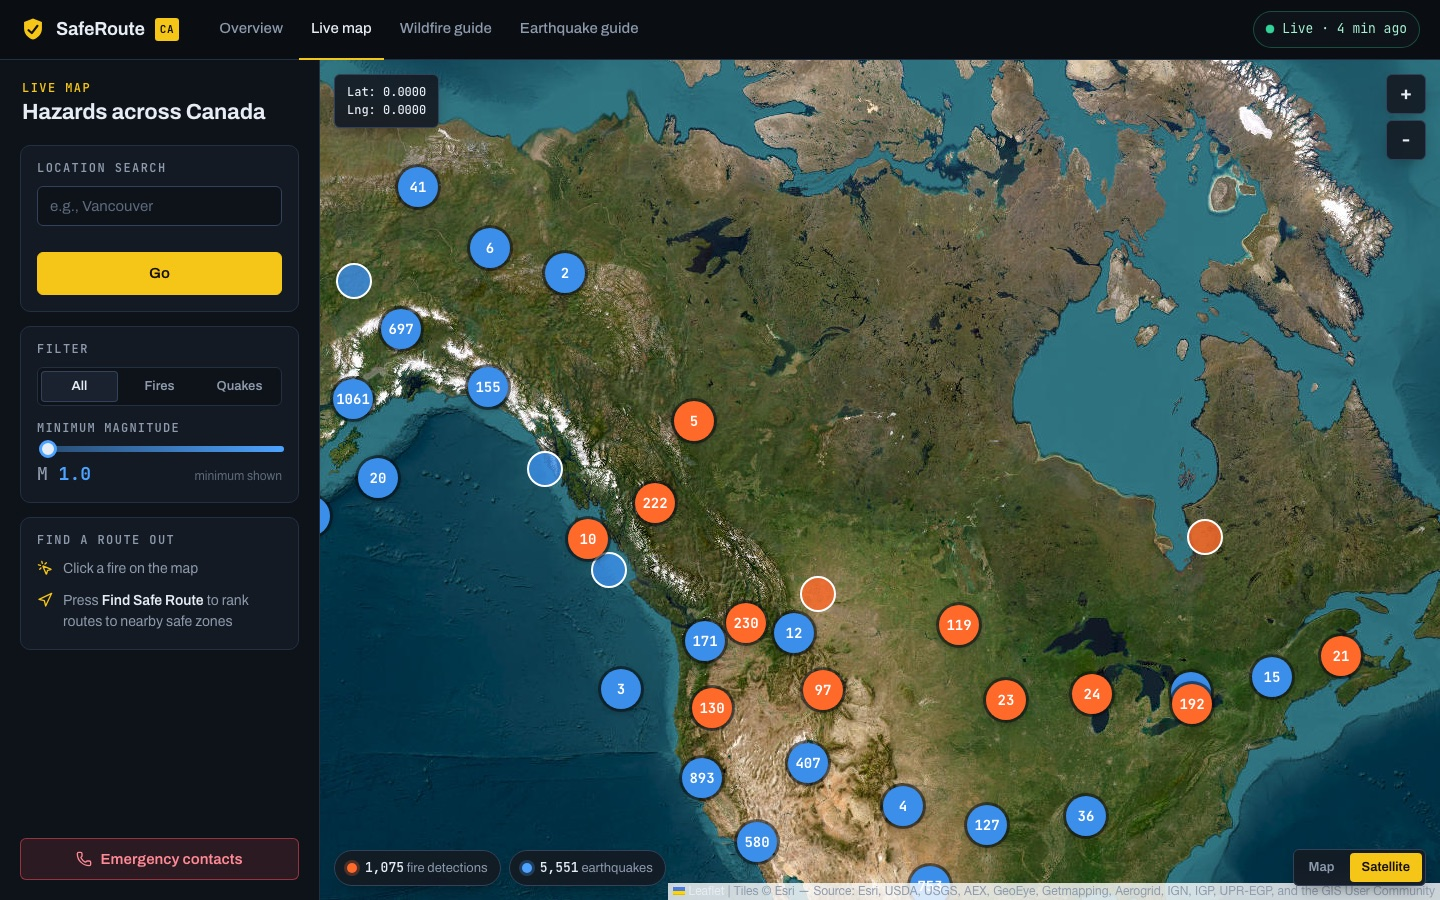
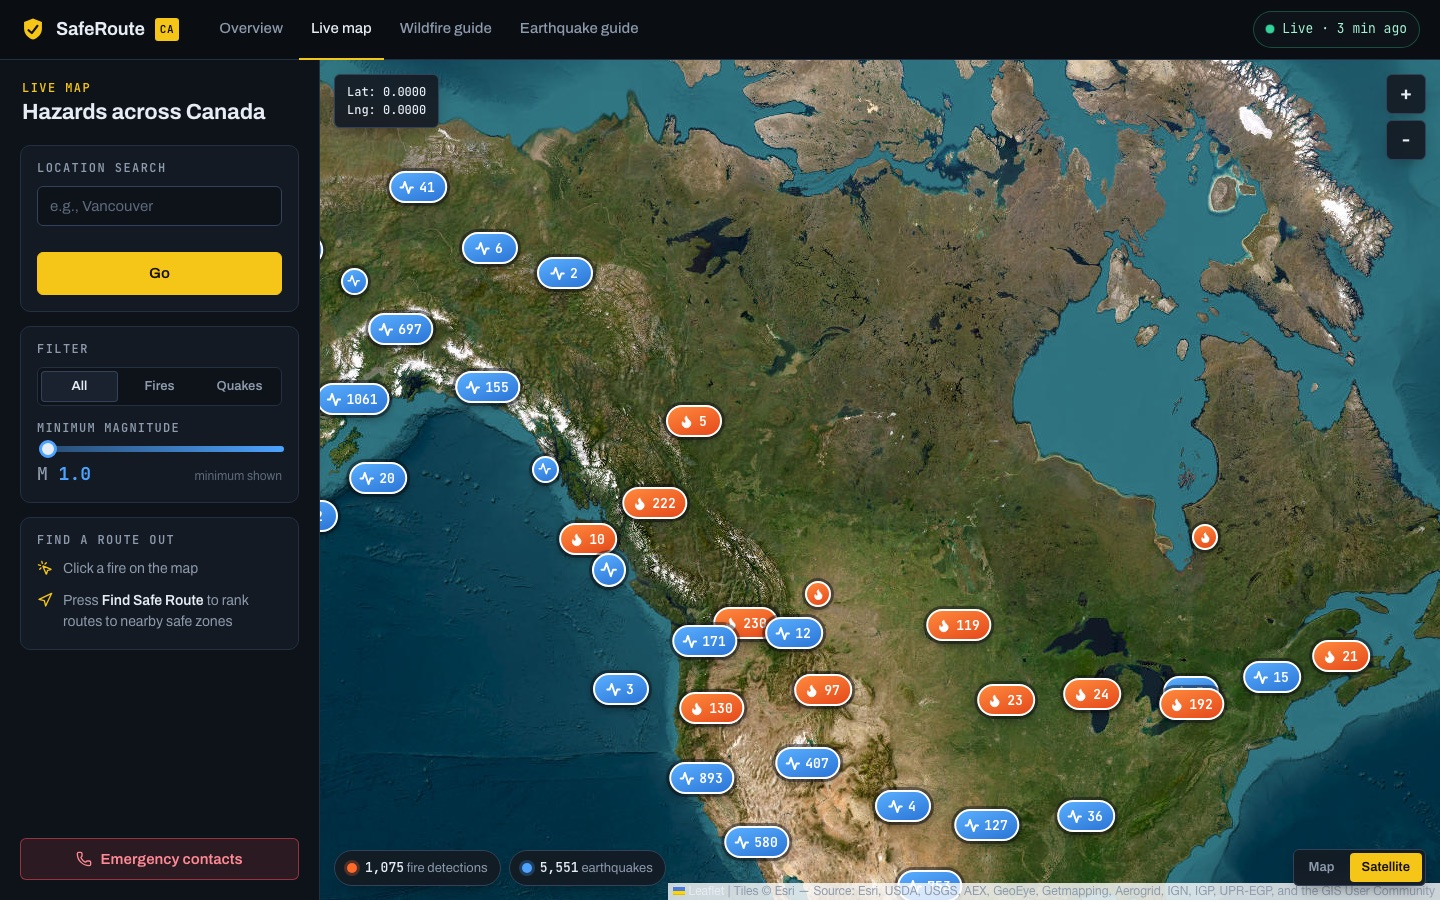
Updated the fire markers

diff --git a/frontend/src/Components/Map/SubComponents/MapComponent.tsx b/frontend/src/Components/Map/SubComponents/MapComponent.tsx
@@ -70,73 +70,62 @@ const createUserLocationIcon = () => {
     });
 };
 
-// Custom Fire Marker
+// Marker icons (Lucide "flame" and "activity" glyphs), styled in MapComponent.css
+const FLAME_SVG = `<svg viewBox="0 0 24 24" aria-hidden="true"><path d="M8.5 14.5A2.5 2.5 0 0 0 11 12c0-1.38-.5-2-1-3-1.07-2.14-.22-4.05 2-6 .5 2.5 2 4.9 4 6.5 2 1.6 3 3.5 3 5.5a7 7 0 1 1-14 0c0-1.15.43-2.29 1-3a2.5 2.5 0 0 0 2.5 2.5z"/></svg>`;
+const QUAKE_SVG = `<svg viewBox="0 0 24 24" aria-hidden="true"><path d="M22 12h-4l-3 9L9 3l-3 9H2"/></svg>`;
+
+// Fire marker: a flame badge that grows with fire radiative power (MW)
 const createFireMarker = (fireData: FireData) => {
-    return L.circleMarker([fireData.lat, fireData.lng], {
-        radius: 17,
-        fillColor: '#ff6a2b',
-        color: '#ffffff',
-        weight: 2,
-        opacity: 1,
-        fillOpacity: 0.8
+    const frp = Number(fireData.properties.fp) || 0;
+    const size = frp >= 50 ? 38 : frp >= 10 ? 32 : 26;
+    return L.marker([fireData.lat, fireData.lng], {
+        icon: L.divIcon({
+            className: 'hz-icon',
+            html: `<div class="hz-marker hz-fire${frp >= 50 ? ' hz-hot' : ''}" style="--s:${size}px">${FLAME_SVG}</div>`,
+            iconSize: [size, size],
+            iconAnchor: [size / 2, size / 2],
+            popupAnchor: [0, -size / 2],
+        }),
+        riseOnHover: true,
     });
 };
 
-// Custom Fire Cluster Icon
+// Fire cluster: a pill with the flame and how many detections it holds
 const createFireClusterIcon = (cluster: MarkerCluster) => {
     const count = cluster.getChildCount();
-    return new L.DivIcon({
-        html: `<div style="
-            background:#ff6a2b;
-            color:white;
-            border-radius:50%;
-            width:40px;
-            height:40px;
-            display:flex;
-            align-items:center;
-            justify-content:center;
-            font-family:'JetBrains Mono',monospace;
-            font-weight:700;
-            font-size:14px;
-            box-shadow:0 0 0 3px rgba(10,14,19,0.55),0 2px 8px rgba(0,0,0,0.4);
-        ">${count}</div>`,
-        className: 'custom-cluster-icon',
-        iconSize: [40, 40]
+    return L.divIcon({
+        className: 'hz-icon',
+        html: `<div class="hz-cluster hz-fire">${FLAME_SVG}<span>${count}</span></div>`,
+        iconSize: [56, 32],
+        iconAnchor: [28, 16],
     });
 };
 
-// Custom Earthquake Marker
-const createEarthquakeMarker = (earthquakeData: EarthquakeData) => {   
-    return L.circleMarker([earthquakeData.lat, earthquakeData.lng], {
-        radius: 17,
-        fillColor: '#3b8eea',
-        color: '#ffffff',
-        weight: 2,
-        opacity: 1,
-        fillOpacity: 0.8
+// Earthquake marker: a seismic-wave badge sized by magnitude, with the magnitude shown for M4+
+const createEarthquakeMarker = (earthquakeData: EarthquakeData) => {
+    const mag = earthquakeData.properties.magnitude ?? 0;
+    const size = Math.round(Math.min(44, Math.max(24, 18 + mag * 4)));
+    const label = mag >= 4 ? `<b>${mag.toFixed(1)}</b>` : QUAKE_SVG;
+    return L.marker([earthquakeData.lat, earthquakeData.lng], {
+        icon: L.divIcon({
+            className: 'hz-icon',
+            html: `<div class="hz-marker hz-quake${mag >= 4 ? ' hz-strong' : ''}" style="--s:${size}px">${label}</div>`,
+            iconSize: [size, size],
+            iconAnchor: [size / 2, size / 2],
+            popupAnchor: [0, -size / 2],
+        }),
+        riseOnHover: true,
     });
 };
 
-// Custom Earthquake Cluster Icon
+// Earthquake cluster: a pill with the wave and the event count
 const createEarthquakeClusterIcon = (cluster: MarkerCluster) => {
     const count = cluster.getChildCount();
-    return new L.DivIcon({
-        html: `<div style="
-            background:#3b8eea;
-            color:white;
-            border-radius:50%;
-            width:40px;
-            height:40px;
-            display:flex;
-            align-items:center;
-            justify-content:center;
-            font-family:'JetBrains Mono',monospace;
-            font-weight:700;
-            font-size:14px;
-            box-shadow:0 0 0 3px rgba(10,14,19,0.55),0 2px 8px rgba(0,0,0,0.4);
-        ">${count}</div>`,
-        className: 'custom-cluster-icon',
-        iconSize: [40, 40]
+    return L.divIcon({
+        className: 'hz-icon',
+        html: `<div class="hz-cluster hz-quake">${QUAKE_SVG}<span>${count}</span></div>`,
+        iconSize: [56, 32],
+        iconAnchor: [28, 16],
     });
 };
 

diff --git a/frontend/src/Components/Map/SubComponents/MapComponent.css b/frontend/src/Components/Map/SubComponents/MapComponent.css
@@ -528,3 +528,55 @@
         padding: 1.5rem;
     }
 }
+
+/* ---------- Hazard markers ---------- */
+.hz-icon { background: none; border: 0; }
+
+.hz-marker {
+    width: var(--s);
+    height: var(--s);
+    border-radius: 50%;
+    display: grid;
+    place-items: center;
+    color: #fff;
+    border: 2px solid #fff;
+    box-shadow: 0 0 0 3px rgba(10, 14, 19, 0.45), 0 3px 10px rgba(0, 0, 0, 0.45);
+    cursor: pointer;
+    transition: transform 0.15s ease;
+}
+.hz-marker:hover { transform: scale(1.12); }
+.hz-marker svg { width: 58%; height: 58%; }
+.hz-marker b { font: 700 calc(var(--s) * 0.34)/1 var(--font-mono); letter-spacing: -0.02em; }
+
+.hz-fire { background: linear-gradient(160deg, #ff8a3d, #e5481a); }
+.hz-fire svg { fill: #fff; stroke: #fff; stroke-width: 1.2; stroke-linejoin: round; }
+/* Intense fires (50+ MW) get a soft pulsing halo */
+.hz-marker.hz-hot { animation: hz-hot 1.8s ease-out infinite; }
+@keyframes hz-hot {
+    0% { box-shadow: 0 0 0 3px rgba(10, 14, 19, 0.45), 0 0 0 0 rgba(255, 106, 43, 0.6); }
+    100% { box-shadow: 0 0 0 3px rgba(10, 14, 19, 0.45), 0 0 0 14px rgba(255, 106, 43, 0); }
+}
+
+.hz-quake { background: linear-gradient(160deg, #5aafff, #2a74d6); }
+.hz-quake svg { fill: none; stroke: #fff; stroke-width: 2.6; stroke-linecap: round; stroke-linejoin: round; }
+.hz-marker.hz-strong { border-color: #ffd43b; }
+
+/* Clusters: a pill with the hazard glyph and a count */
+.hz-cluster {
+    height: 32px;
+    min-width: 56px;
+    padding: 0 10px 0 8px;
+    display: inline-flex;
+    align-items: center;
+    justify-content: center;
+    gap: 5px;
+    border-radius: 999px;
+    border: 2px solid #fff;
+    color: #fff;
+    box-shadow: 0 0 0 3px rgba(10, 14, 19, 0.45), 0 3px 10px rgba(0, 0, 0, 0.45);
+    font: 700 13px/1 var(--font-mono);
+    white-space: nowrap;
+    transform: translateX(calc(28px - 50%));
+}
+.hz-cluster svg { width: 15px; height: 15px; flex: none; }
+.hz-cluster.hz-quake svg { stroke-width: 3; }
